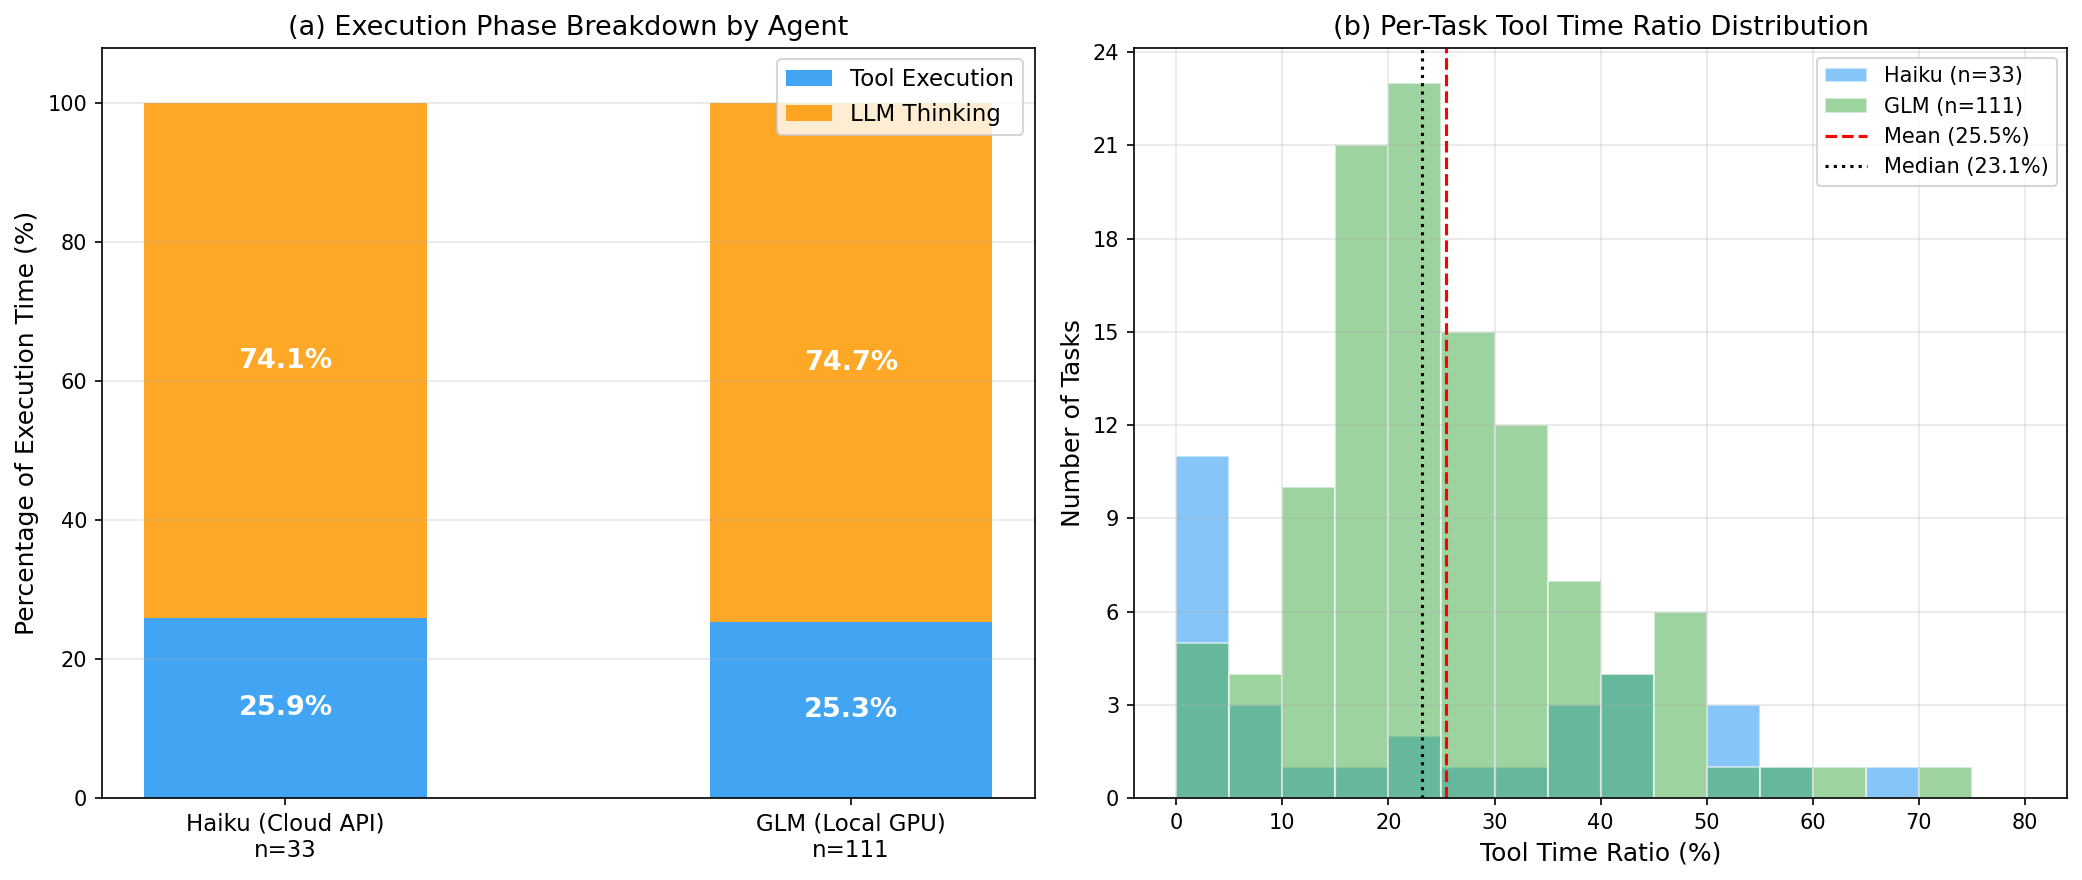
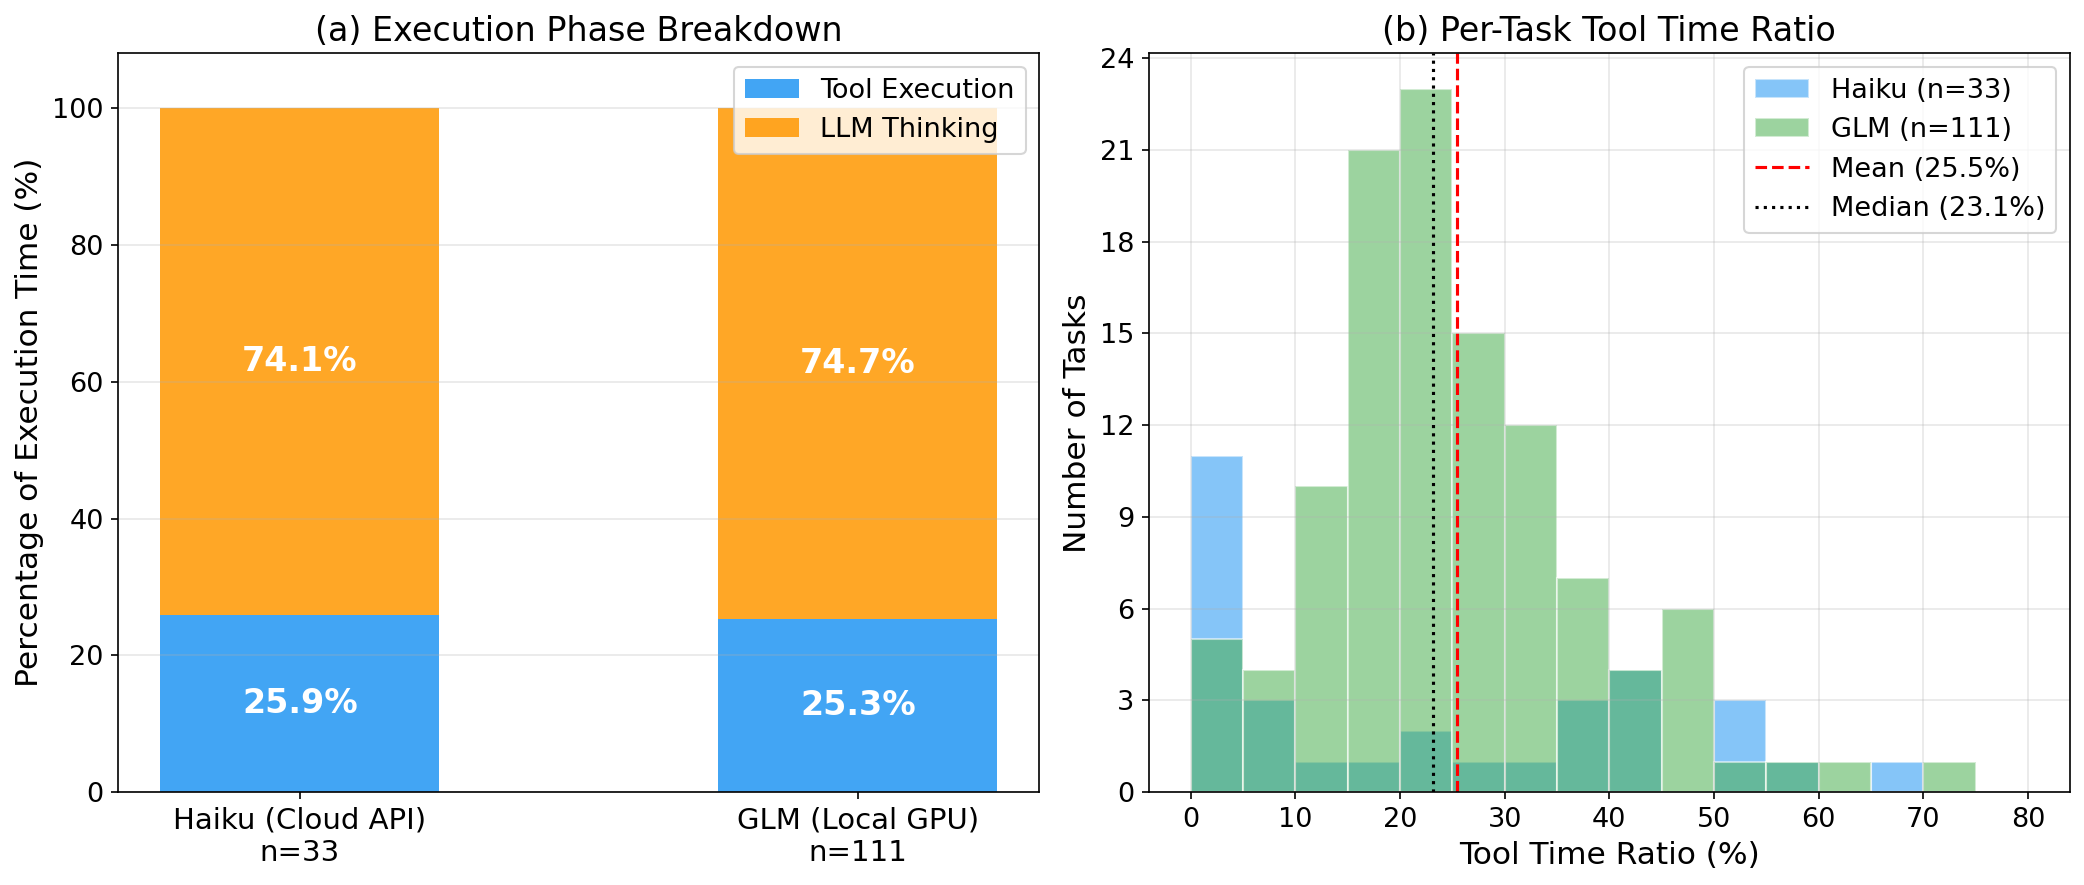
Enhance visualization and documentation: update chart aesthetics, improve report generation timestamps, and refine characterization analysis.

diff --git a/analysis/characterization.py b/analysis/characterization.py
@@ -440,21 +440,21 @@ def step_phase_comparison_chart(haiku_results, local_results):
     ax1.bar(x, llm_vals, width, bottom=tool_vals, label="LLM Thinking",
             color="#FF9800", alpha=0.85)
 
-    # percentage labels inside each segment
     for i, (tv, lv) in enumerate(zip(tool_vals, llm_vals)):
         ax1.text(i, tv / 2, f"{tv:.1f}%",
-                 ha="center", va="center", fontsize=13,
+                 ha="center", va="center", fontsize=16,
                  fontweight="bold", color="white")
         ax1.text(i, tv + lv / 2, f"{lv:.1f}%",
-                 ha="center", va="center", fontsize=13,
+                 ha="center", va="center", fontsize=16,
                  fontweight="bold", color="white")
 
-    ax1.set_ylabel("Percentage of Execution Time (%)", fontsize=12)
-    ax1.set_title("(a) Execution Phase Breakdown by Agent", fontsize=13)
+    ax1.set_ylabel("Percentage of Execution Time (%)", fontsize=15)
+    ax1.set_title("(a) Execution Phase Breakdown", fontsize=16)
     ax1.set_xticks(x)
-    ax1.set_xticklabels(agents, fontsize=11)
+    ax1.set_xticklabels(agents, fontsize=14)
     ax1.set_ylim(0, 108)
-    ax1.legend(loc="upper right", fontsize=11)
+    ax1.legend(loc="upper right", fontsize=13)
+    ax1.tick_params(axis="y", labelsize=13)
     ax1.grid(axis="y", alpha=0.3)
 
     # ---- Right: histogram of per-task tool ratio ----
@@ -478,10 +478,11 @@ def step_phase_comparison_chart(haiku_results, local_results):
         ax2.axvline(x=med, color="black", linestyle=":", linewidth=1.5,
                     label=f"Median ({med:.1f}%)")
 
-    ax2.set_xlabel("Tool Time Ratio (%)", fontsize=12)
-    ax2.set_ylabel("Number of Tasks", fontsize=12)
-    ax2.set_title("(b) Per-Task Tool Time Ratio Distribution", fontsize=13)
-    ax2.legend(fontsize=10)
+    ax2.set_xlabel("Tool Time Ratio (%)", fontsize=15)
+    ax2.set_ylabel("Number of Tasks", fontsize=15)
+    ax2.set_title("(b) Per-Task Tool Time Ratio", fontsize=16)
+    ax2.legend(fontsize=13)
+    ax2.tick_params(axis="both", labelsize=13)
     ax2.yaxis.set_major_locator(MaxNLocator(integer=True))
     ax2.grid(alpha=0.3)
 
@@ -572,36 +573,62 @@ def step_tool_and_bash_pie_chart(haiku_results, local_results):
         print("  WARNING: No data — skipping")
         return
 
-    fig, (ax1, ax2) = plt.subplots(1, 2, figsize=(16, 7))
+    fig, (ax1, ax2) = plt.subplots(1, 2, figsize=(18, 8))
     cmap = plt.cm.Set3
+
+    # Helper: group slices < threshold into "Other"
+    def _group_small(names, sizes, threshold=2.0):
+        total = sum(sizes)
+        main_n, main_s, other_s = [], [], 0.0
+        for n, s in zip(names, sizes):
+            if s / total * 100 >= threshold:
+                main_n.append(n)
+                main_s.append(s)
+            else:
+                other_s += s
+        if other_s > 0:
+            main_n.append("Other")
+            main_s.append(other_s)
+        return main_n, main_s
 
     # ---- (a) Tool usage pie ----
     sorted_tools = sorted(merged_tool.items(),
                           key=lambda x: x[1]["total_time"], reverse=True)
-    # Filter out near-zero tools
     sorted_tools = [(n, s) for n, s in sorted_tools if s["total_time"] > 0]
     total_tool_time = sum(s["total_time"] for _, s in sorted_tools)
 
-    tool_names = [n for n, _ in sorted_tools]
-    tool_sizes = [s["total_time"] for _, s in sorted_tools]
-    tool_labels = [
-        f"{n}\n({s['total_time']/total_tool_time*100:.1f}%)"
-        for n, s in sorted_tools
-    ]
-    colors_a = [cmap(i) for i in range(len(tool_names))]
-    ax1.pie(tool_sizes, labels=tool_labels, colors=colors_a, startangle=90,
-            textprops={"fontsize": 9})
-    ax1.set_title("(a) Tool Usage by Time", fontsize=13)
+    t_names = [n for n, _ in sorted_tools]
+    t_sizes = [s["total_time"] for _, s in sorted_tools]
+    t_names, t_sizes = _group_small(t_names, t_sizes, threshold=2.0)
+    colors_a = [cmap(i) for i in range(len(t_names))]
+
+    wedges1, texts1, autotexts1 = ax1.pie(
+        t_sizes, labels=t_names, colors=colors_a, startangle=90,
+        autopct=lambda p: f"{p:.1f}%" if p >= 3 else "",
+        pctdistance=0.75,
+        textprops={"fontsize": 14})
+    for at in autotexts1:
+        at.set_fontsize(13)
+        at.set_fontweight("bold")
+    ax1.set_title("(a) Tool Usage by Time", fontsize=18, pad=15)
 
     # ---- (b) Bash category pie ----
     cats = sorted(merged_bash.keys(), key=lambda c: merged_bash[c], reverse=True)
     total_bash = sum(merged_bash[c] for c in cats)
-    bash_sizes = [merged_bash[c] for c in cats]
-    bash_labels = [f"{c}\n({merged_bash[c]/total_bash*100:.1f}%)" for c in cats]
-    colors_b = [cmap(i) for i in range(len(cats))]
-    ax2.pie(bash_sizes, labels=bash_labels, colors=colors_b, startangle=90,
-            textprops={"fontsize": 9})
-    ax2.set_title("(b) Bash Command Time by Category", fontsize=13)
+    b_names = list(cats)
+    b_sizes = [merged_bash[c] for c in cats]
+    b_names, b_sizes = _group_small(b_names, b_sizes, threshold=2.0)
+    colors_b = [cmap(i) for i in range(len(b_names))]
+
+    wedges2, texts2, autotexts2 = ax2.pie(
+        b_sizes, labels=b_names, colors=colors_b, startangle=90,
+        autopct=lambda p: f"{p:.1f}%" if p >= 3 else "",
+        pctdistance=0.75,
+        textprops={"fontsize": 14})
+    for at in autotexts2:
+        at.set_fontsize(13)
+        at.set_fontweight("bold")
+    ax2.set_title("(b) Bash Command Time by Category", fontsize=18, pad=15)
 
     plt.tight_layout()
     os.makedirs(COMPARISON_FIGURES, exist_ok=True)
@@ -669,12 +696,10 @@ def step_setup_overhead_chart():
         print("  WARNING: No data — skipping")
         return {}
 
-    fig, axes = plt.subplots(1, 2, figsize=(14, 5))
+    fig, axes = plt.subplots(1, 2, figsize=(14, 5.5))
 
     # ---- (a) Image size distribution (deduplicated by task name) ----
     ax = axes[0]
-    # Same SWE-bench task uses the same Docker image regardless of agent,
-    # so deduplicate by task name, preferring the first seen value.
     seen_tasks = {}
     for r in haiku + local:
         if r["task"] not in seen_tasks and r["image_mb"] > 0:
@@ -690,11 +715,11 @@ def step_setup_overhead_chart():
                    label=f"Mean ({avg_img:.1f} GB)")
         ax.axvline(med_img, color="black", ls=":", lw=1.5,
                    label=f"Median ({med_img:.1f} GB)")
-    ax.set_xlabel("Image Size (GB)", fontsize=12)
-    ax.set_ylabel("Number of Tasks", fontsize=12)
-    ax.set_title(f"(a) Docker Image Size Distribution (n={len(unique_img)})",
-                 fontsize=13)
-    ax.legend(fontsize=10)
+    ax.set_xlabel("Image Size (GB)", fontsize=15)
+    ax.set_ylabel("Number of Tasks", fontsize=15)
+    ax.set_title(f"(a) Docker Image Size (n={len(unique_img)})", fontsize=16)
+    ax.legend(fontsize=13)
+    ax.tick_params(axis="both", labelsize=13)
     ax.yaxis.set_major_locator(MaxNLocator(integer=True))
     ax.grid(alpha=0.3)
 
@@ -716,10 +741,11 @@ def step_setup_overhead_chart():
                    label=f"Mean ({statistics.mean(all_time):.1f} min)")
         ax.axvline(statistics.median(all_time), color="black", ls=":", lw=1.5,
                    label=f"Median ({statistics.median(all_time):.1f} min)")
-    ax.set_xlabel("Execution Time (minutes)", fontsize=12)
-    ax.set_ylabel("Number of Tasks", fontsize=12)
-    ax.set_title("(b) Task Execution Time Distribution", fontsize=13)
-    ax.legend(fontsize=10)
+    ax.set_xlabel("Execution Time (minutes)", fontsize=15)
+    ax.set_ylabel("Number of Tasks", fontsize=15)
+    ax.set_title("(b) Task Execution Time", fontsize=16)
+    ax.legend(fontsize=13)
+    ax.tick_params(axis="both", labelsize=13)
     ax.yaxis.set_major_locator(MaxNLocator(integer=True))
     ax.grid(alpha=0.3)
 

diff --git a/paper/docs/characterization.md b/paper/docs/characterization.md
@@ -40,6 +40,8 @@ Agent 的执行过程与传统容器化工作负载存在根本差异。与 serv
 
 ![工具使用时间线](../../analysis/haiku_figures/chart_05_tool_timeline.png)
 
+上述分析还揭示了多租户部署中的资源瓶颈结构。Agent 的平均 CPU 利用率极低（Haiku 13.2%、GLM 7.6%，单核基准），在 24 核实验平台上 CPU 远未饱和。内存才是并发密度的决定性约束：峰值内存可达 2–4GB，128GB 内存按峰值分配仅能支撑 32–64 个实例，此时 CPU 利用率仍不超过总容量的 36%。这种 CPU 大量闲置而内存成为瓶颈的失衡，意味着动态内存管理是提升并发密度的关键——在短暂的内存突发时弹性扩展，在空闲期回收资源以容纳更多并发实例。
+
 ## 3.3 RQ2: Resource Unpredictability
 
 Agent 工作负载的资源使用难以预测，这种不可预测性源于三个维度：时间动态性、非确定性和异构性。
@@ -80,7 +82,6 @@ Haiku 和 GLM agent 在相同任务上表现出显著的 CPU 利用率差异（H
 
 ![不同 Agent 的 CPU 利用率对比](../../analysis/comparison_figures/04_cpu_utilization_comparison.png)
 
-上述分析还揭示了多租户部署中的资源瓶颈结构。Agent 的平均 CPU 利用率极低（Haiku 13.2%、GLM 7.6%，单核基准），在 24 核实验平台上 CPU 远未饱和。内存才是并发密度的决定性约束：峰值内存可达 2–4GB，128GB 内存按峰值分配仅能支撑 32–64 个实例，此时 CPU 利用率仍不超过总容量的 36%。这种 CPU 大量闲置而内存成为瓶颈的失衡，意味着动态内存管理是提升并发密度的关键——在短暂的内存突发时弹性扩展，在空闲期回收资源以容纳更多并发实例。
 
 ## 3.4 RQ3: Provisioning Efficiency
 

diff --git a/analysis/haiku_figures/report.md b/analysis/haiku_figures/report.md
@@ -1,6 +1,6 @@
 # AgentCgroup SWE-Bench Experiment Analysis Report (haiku)
 
-Generated: 2026-02-07 15:23:58
+Generated: 2026-02-07 15:28:19
 
 Data source: `/home/yunwei37/workspace/agentcgroup/experiments/all_images_haiku`
 

diff --git a/analysis/qwen3_figures/report.md b/analysis/qwen3_figures/report.md
@@ -1,6 +1,6 @@
 # AgentCgroup SWE-Bench Experiment Analysis Report (qwen3)
 
-Generated: 2026-02-07 15:24:00
+Generated: 2026-02-07 15:28:21
 
 Data source: `/home/yunwei37/workspace/agentcgroup/experiments/all_images_local`
 

diff --git a/analysis/haiku_vs_qwen_report.md b/analysis/haiku_vs_qwen_report.md
@@ -1,6 +1,6 @@
 # Haiku vs Local Model (GLM) Comparison Report
 
-**Generated**: 2026-02-07 15:24:05
+**Generated**: 2026-02-07 15:28:25
 
 ## Overview
 
